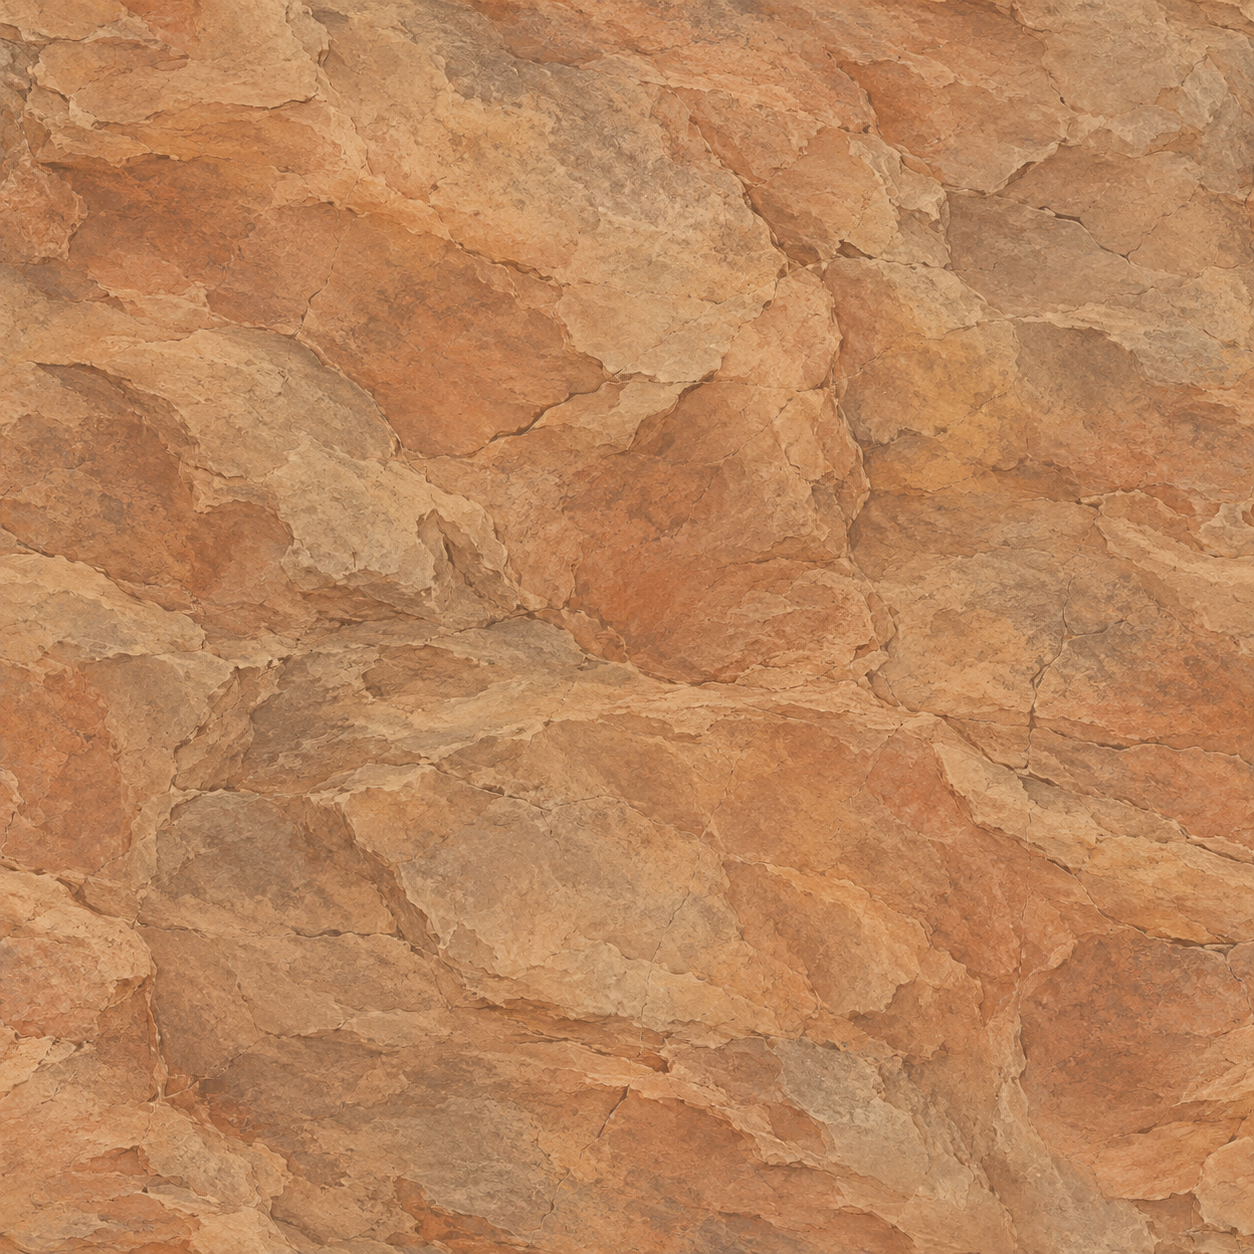
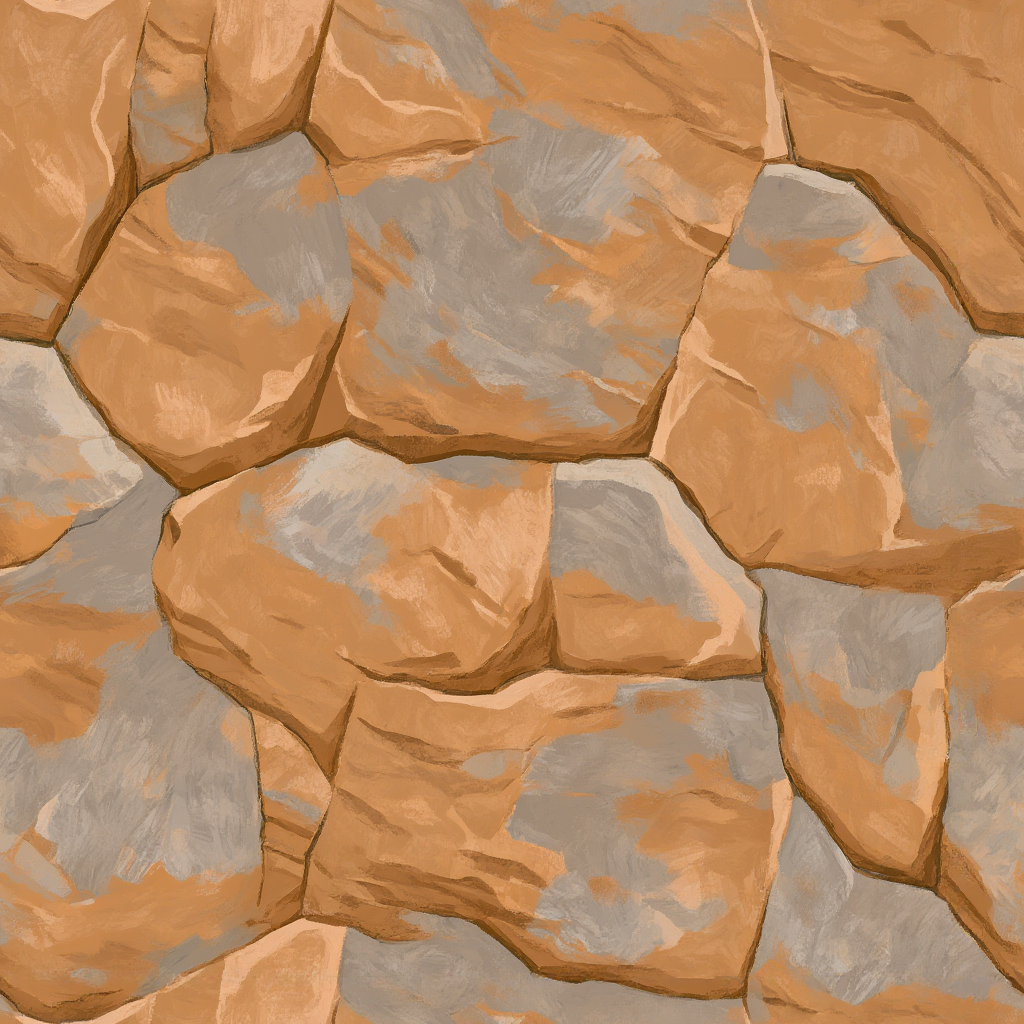
Repaint the walking ground: meadow, faceted rock, rippled sand and drifted snow (#9666)
The four terrain-layer maps were 2026 GPT studies that read as grey-green noise at play distance.
New sources: Z-Image with seamless tiling on den-m5 (asset-pipeline tools/materials/tileable_gen.py),
from painterly top-down ground prompts (a rock retry asked for continuous faceted stone after
the first prompt gave cobble mosaics). Runtime maps are 512 px, made by scripts/stylise-texture.py
--tile: painterly grouping, a pull toward the palette's meadow/earth, sandstone/stone,
sandstone/autumn and snow/stone ramps, lowered saturation. Snow repeats every 12 m (was 6) at
softened contrast so drifts read as broad shapes.

Grass and Dirt still share the meadow map and Snow and Gravel the snow map: the Engine's terrain
blend takes four layers (rusty-engine #9676). Prompts, seeds, source hashes and the stylise command
per map are in prompts.json; sources in content/terrain-studies/source.

diff --git a/content/terrain-studies/README.md b/content/terrain-studies/README.md
@@ -1,17 +1,16 @@
 # Terrain material sources
 
-These four source PNGs were generated with the built-in GPT image tool for the
-Paperback Sanctum terrain direction. Exact prompts are retained in
-[`prompts.json`](../game/textures/terrain-studies/prompts.json).
+These four source PNGs were generated for the content pass (#9666) with Z-Image and
+seamless tiling on den-m5 (asset-pipeline `tools/materials/tileable_gen.py --tiling seamless
+--size 1024`), from painterly top-down ground prompts. Exact prompts, seeds, source hashes and
+the stylise command for each map are retained in
+[`prompts.json`](../game/textures/terrain-studies/prompts.json). They replace the earlier GPT
+studies (see git history).
 
-`source/` contains the unmodified RGB outputs. Runtime copies in
+`source/` contains the unmodified generator outputs. Runtime copies in
 [`content/game/textures/terrain-studies`](../game/textures/terrain-studies/)
-are losslessly normalized to 8-bit RGBA PNG for Engine admission, with fully
-opaque alpha and unchanged RGB pixels. The import command is:
-
-```bash
-ffmpeg -i source.png -pix_fmt rgba runtime.png
-```
+are made by `scripts/stylise-texture.py --tile` (512 px, painterly grouping, a pull toward the
+palette ramps in `content/style/palette.json`), written as 8-bit RGBA PNG for Engine admission.
 
 `materials.json` records the runtime dimensions, SHA-256 and metres per repeat.
 Update its hash after replacing a runtime map. `TerrainGroundMaterials` admits
